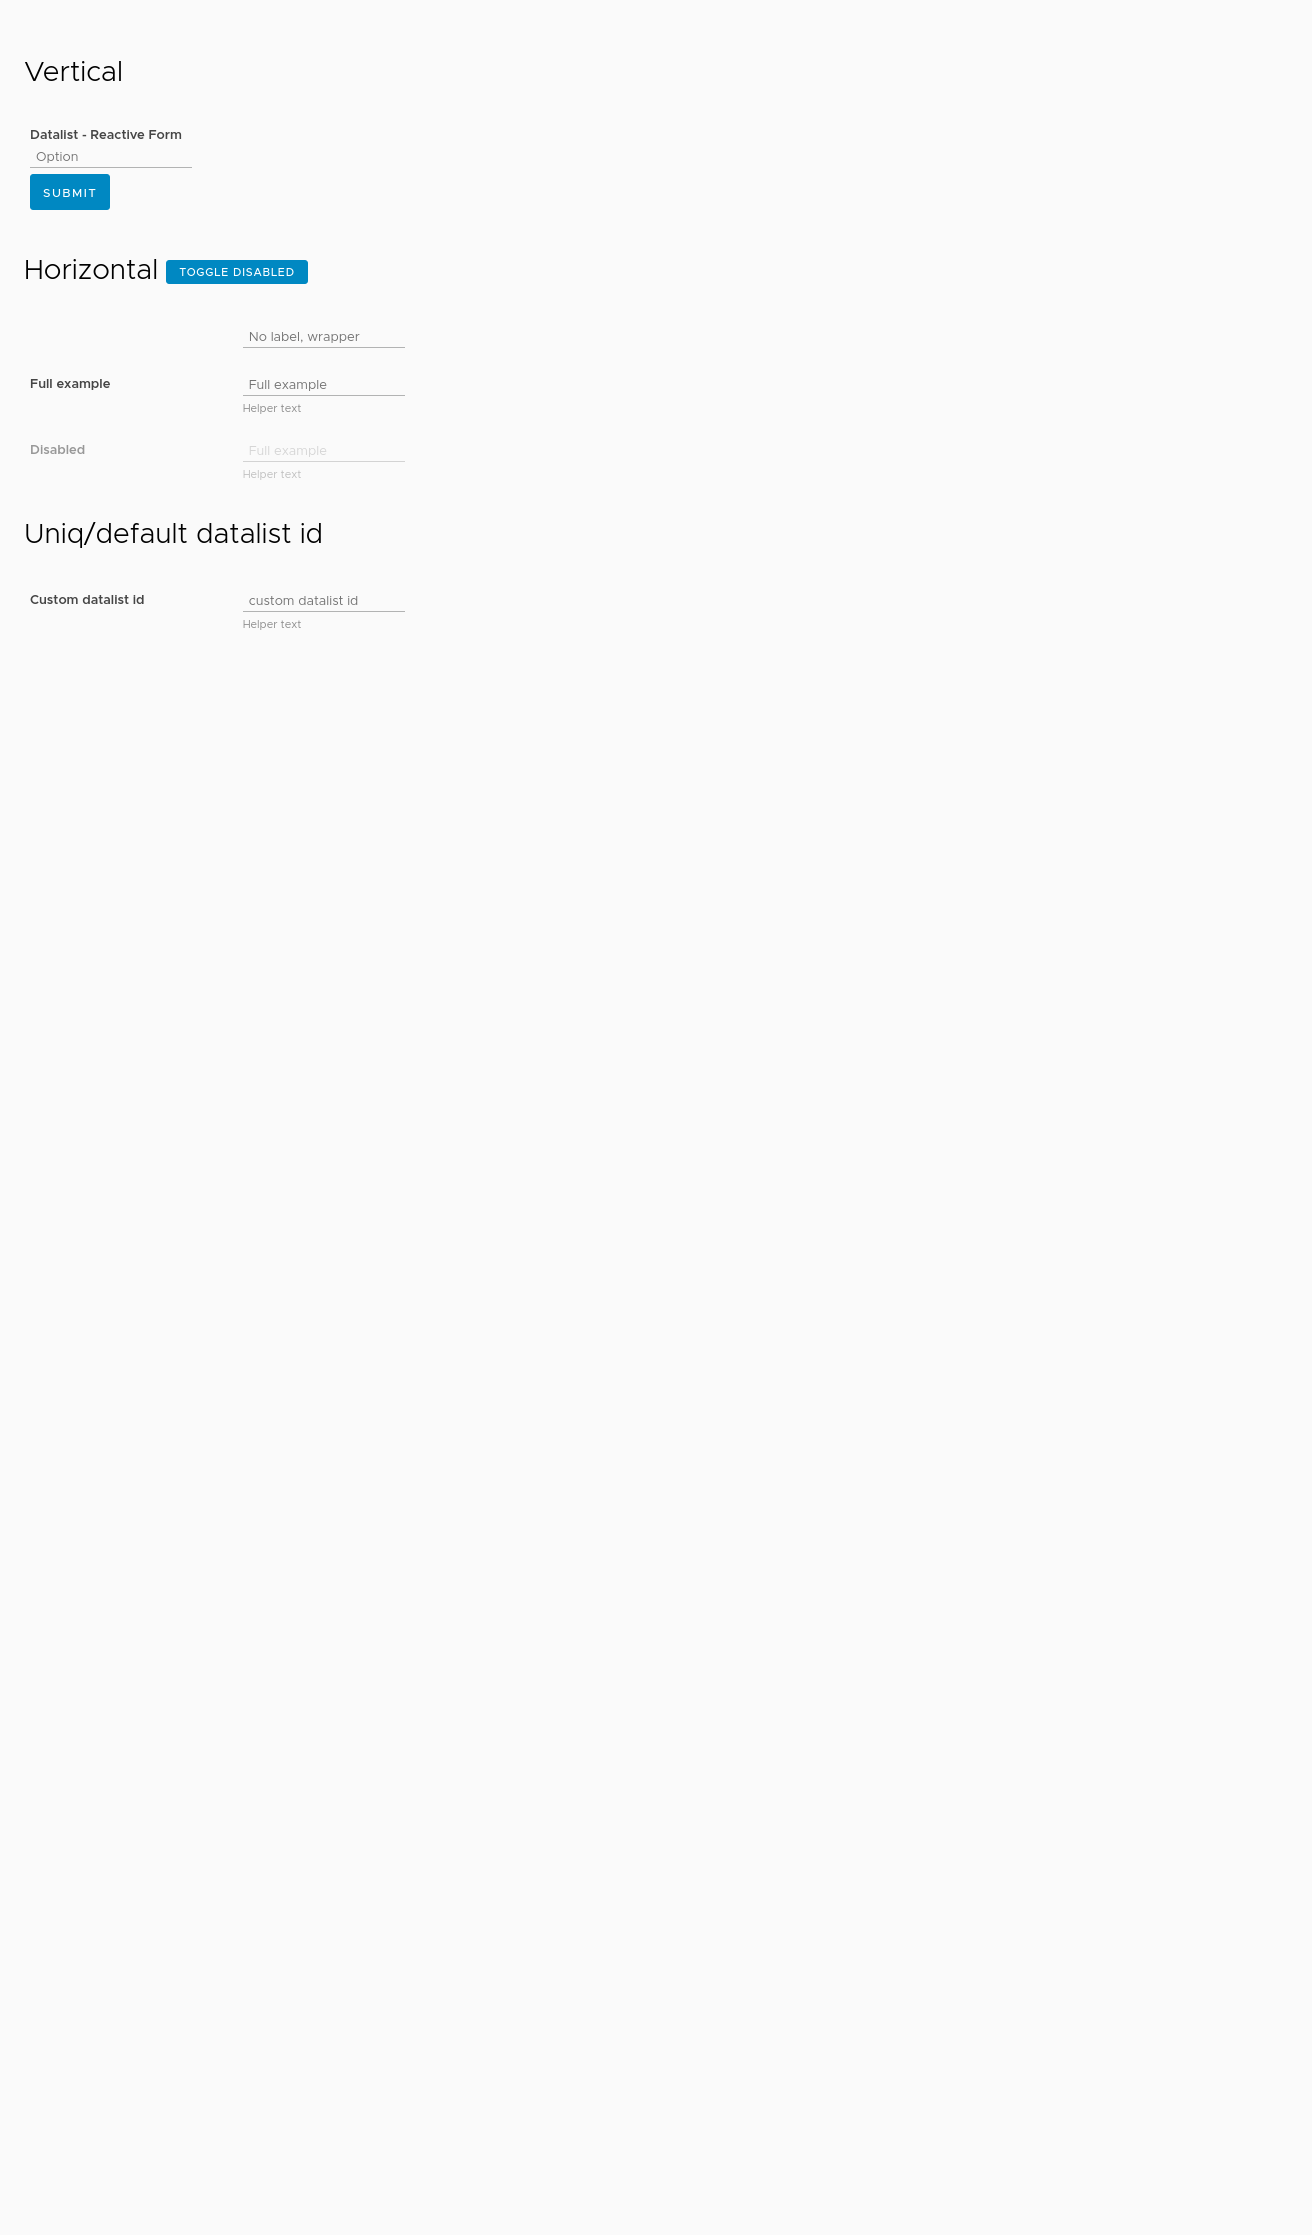
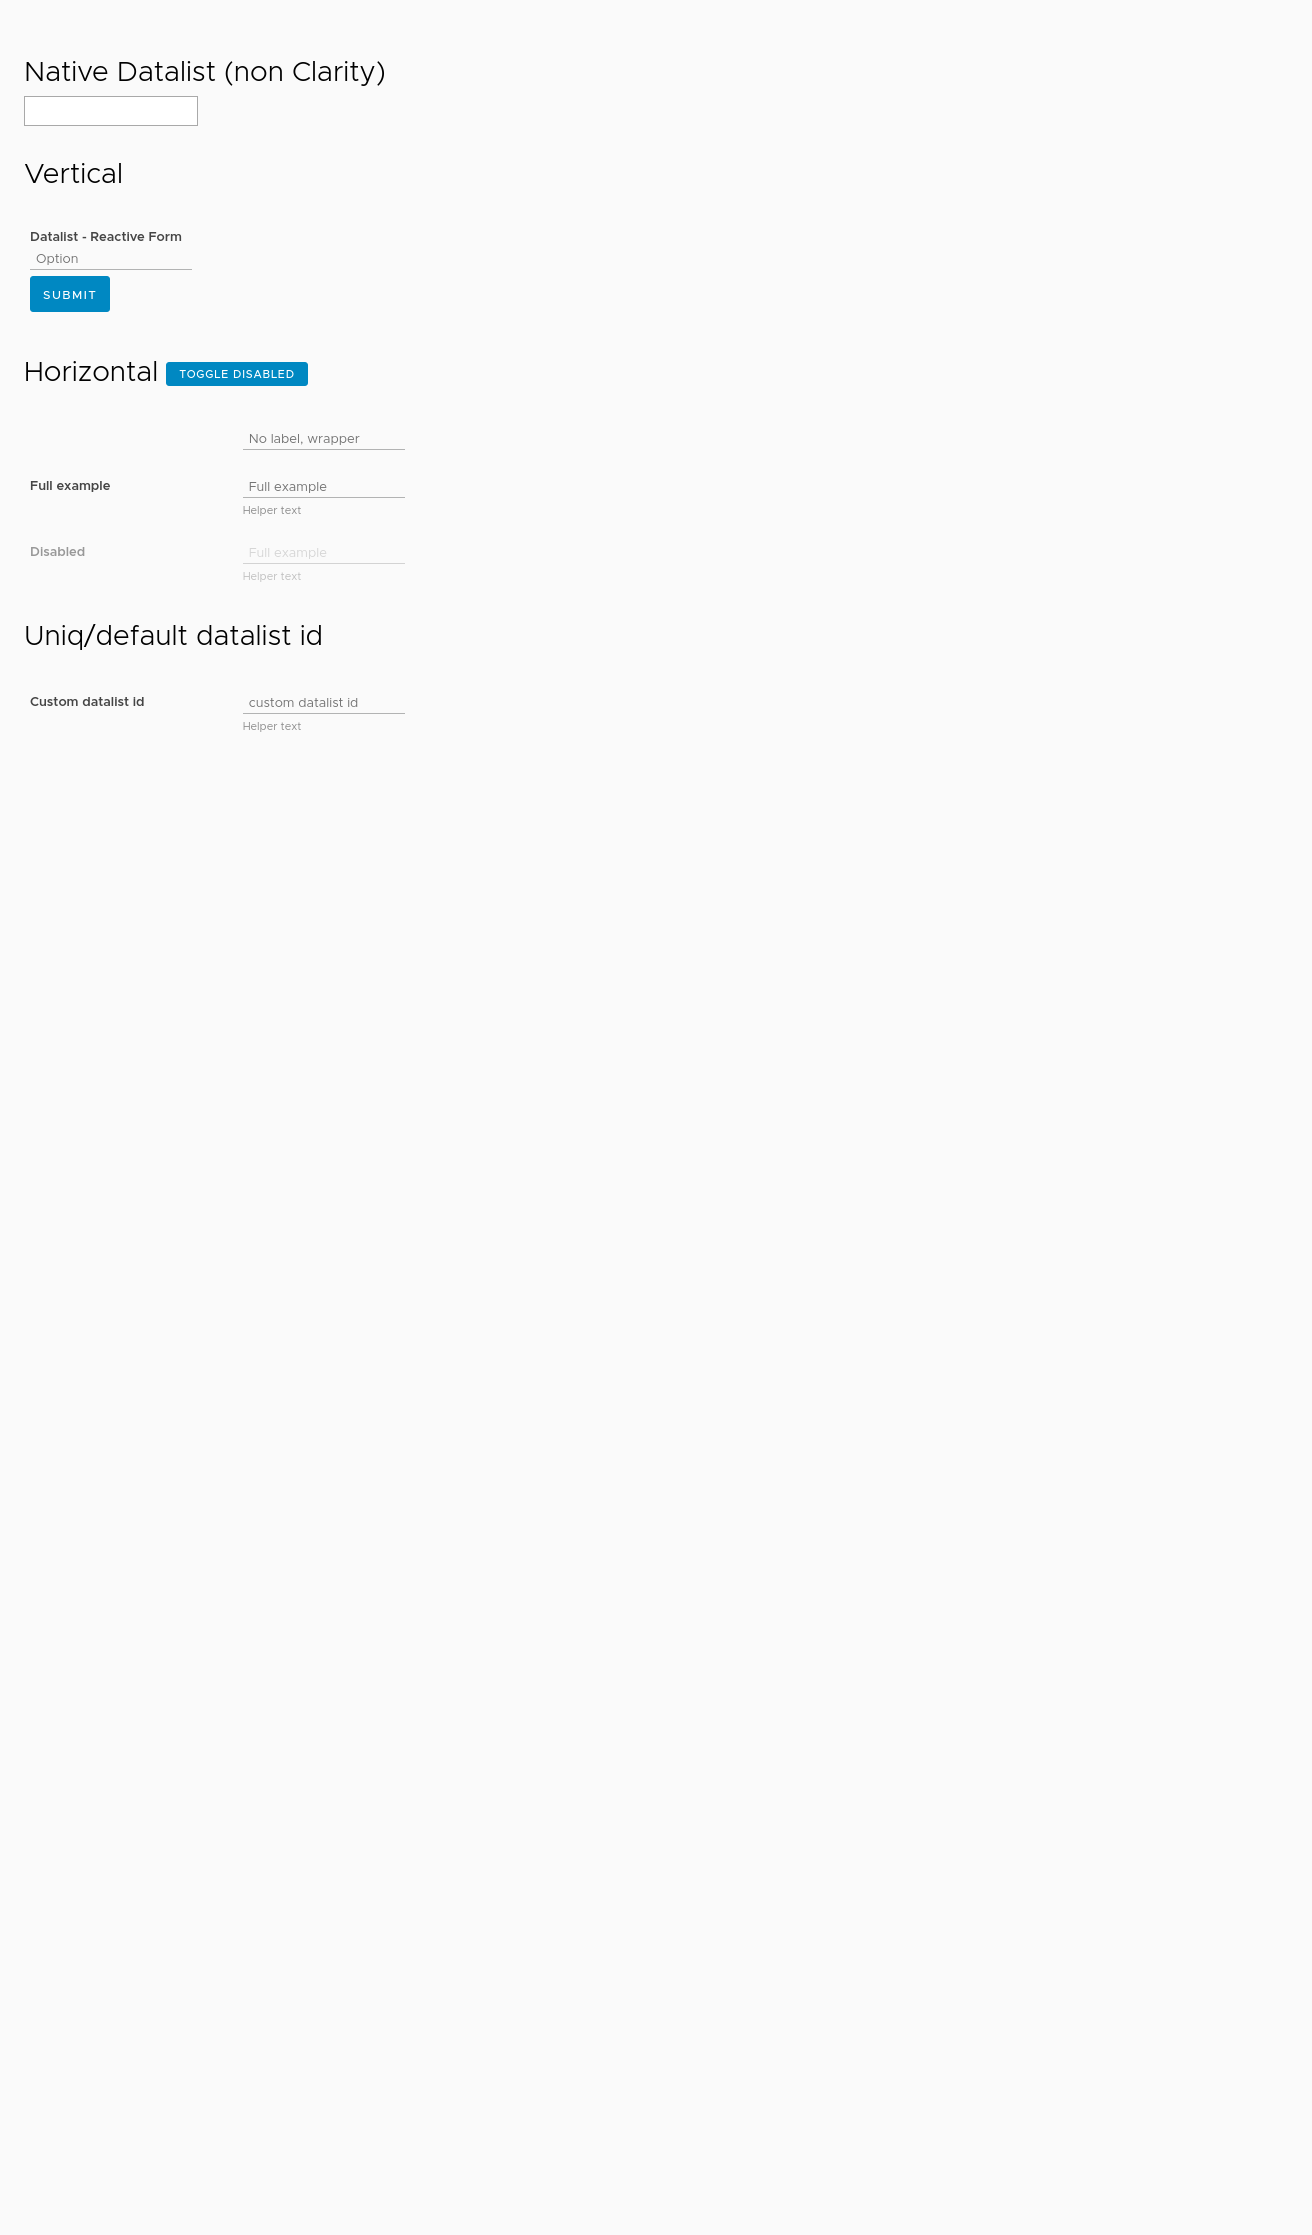
fix(datalist): adds optional service

Changed region(s): [[0.0, 0.0309, 0.25, 0.3396], [0.0312, 0.2161, 0.0938, 0.3087]]

diff --git a/src/clr-angular/forms/datalist/datalist.spec.ts b/src/clr-angular/forms/datalist/datalist.spec.ts
@@ -1,5 +1,5 @@
 /*
- * Copyright (c) 2016-2019 VMware, Inc. All Rights Reserved.
+ * Copyright (c) 2016-2020 VMware, Inc. All Rights Reserved.
  * This software is released under MIT license.
  * The full license information can be found in LICENSE in the root directory of this project.
  */
@@ -20,10 +20,20 @@ export class TestDatalistId {
   testId;
 }
 
+@Component({
+  template: `
+    <datalist id="native-datalist">
+        <option value="one">One</option>
+        <option value="two">Two</option>
+    </datalist>
+  `,
+})
+export class TestNativeDatalist {}
+
 type Context = TestContext<ClrDatalist, TestDatalistId>;
 
 export default function(): void {
-  describe('Datalist Element', function() {
+  describe('Clarity Datalist Element', function() {
     let datalistIdService: DatalistIdService;
     spec(ClrDatalist, TestDatalistId, undefined, {
       providers: [DatalistIdService],
@@ -41,6 +51,15 @@ export default function(): void {
       this.detectChanges();
       expect(datalistIdService.id).toEqual(this.clarityElement.id);
       expect(this.clarityElement.id).toEqual('custom-id');
+    });
+  });
+
+  describe('Native Datalist Element', function() {
+    spec(ClrDatalist, TestNativeDatalist);
+
+    it('handles native datalist element without any errors', function() {
+      const nativeDatalist: HTMLElement = document.getElementById('native-datalist');
+      expect(nativeDatalist).toBeTruthy();
     });
   });
 }

diff --git a/src/clr-angular/forms/datalist/datalist.ts b/src/clr-angular/forms/datalist/datalist.ts
@@ -1,10 +1,10 @@
 /*
- * Copyright (c) 2016-2019 VMware, Inc. All Rights Reserved.
+ * Copyright (c) 2016-2020 VMware, Inc. All Rights Reserved.
  * This software is released under MIT license.
  * The full license information can be found in LICENSE in the root directory of this project.
  */
 
-import { Input, Directive, AfterContentInit } from '@angular/core';
+import { Input, Directive, AfterContentInit, Optional } from '@angular/core';
 
 import { Subscription } from 'rxjs';
 import { DatalistIdService } from './providers/datalist-id.service';
@@ -17,17 +17,22 @@ import { DatalistIdService } from './providers/datalist-id.service';
 })
 export class ClrDatalist implements AfterContentInit {
   private subscriptions: Subscription[] = [];
-  constructor(private datalistIdService: DatalistIdService) {}
+  constructor(@Optional() private datalistIdService: DatalistIdService) {}
   datalistId: string;
 
   ngAfterContentInit() {
+    if (!this.datalistIdService) {
+      return;
+    }
     this.subscriptions.push(this.datalistIdService.idChange.subscribe(id => (this.datalistId = id)));
   }
   @Input()
   set id(idValue) {
-    if (!!idValue) {
+    if (!!idValue && this.datalistIdService) {
       this.datalistId = idValue;
       this.datalistIdService.id = idValue;
+    } else if (!!idValue) {
+      this.datalistId = idValue;
     }
   }
 

diff --git a/src/dev/src/app/datalist/datalist.demo.html b/src/dev/src/app/datalist/datalist.demo.html
@@ -1,8 +1,23 @@
 <!--
-  ~ Copyright (c) 2016-2019 VMware, Inc. All Rights Reserved.
+  ~ Copyright (c) 2016-2020 VMware, Inc. All Rights Reserved.
   ~ This software is released under MIT license.
   ~ The full license information can be found in LICENSE in the root directory of this project.
   -->
+<h2>Native Datalist (non Clarity)</h2>
+<input list="pasta">
+<datalist id="pasta">
+  <option>Bavette</option>
+  <option>Cannelloni</option>
+  <option>Fiorentine</option>
+  <option>Gnocchi</option>
+  <option>Pappardelle</option>
+  <option>Penne lisce</option>
+  <option>Pici</option>
+  <option>Rigatoni</option>
+  <option>Spaghetti</option>
+  <option>Tagliatelle</option>
+</datalist>
+
 <h2>Vertical</h2>
 <form clrForm clrLayout="vertical" (submit)="submit()" [formGroup]="model">
   <clr-datalist-container>
